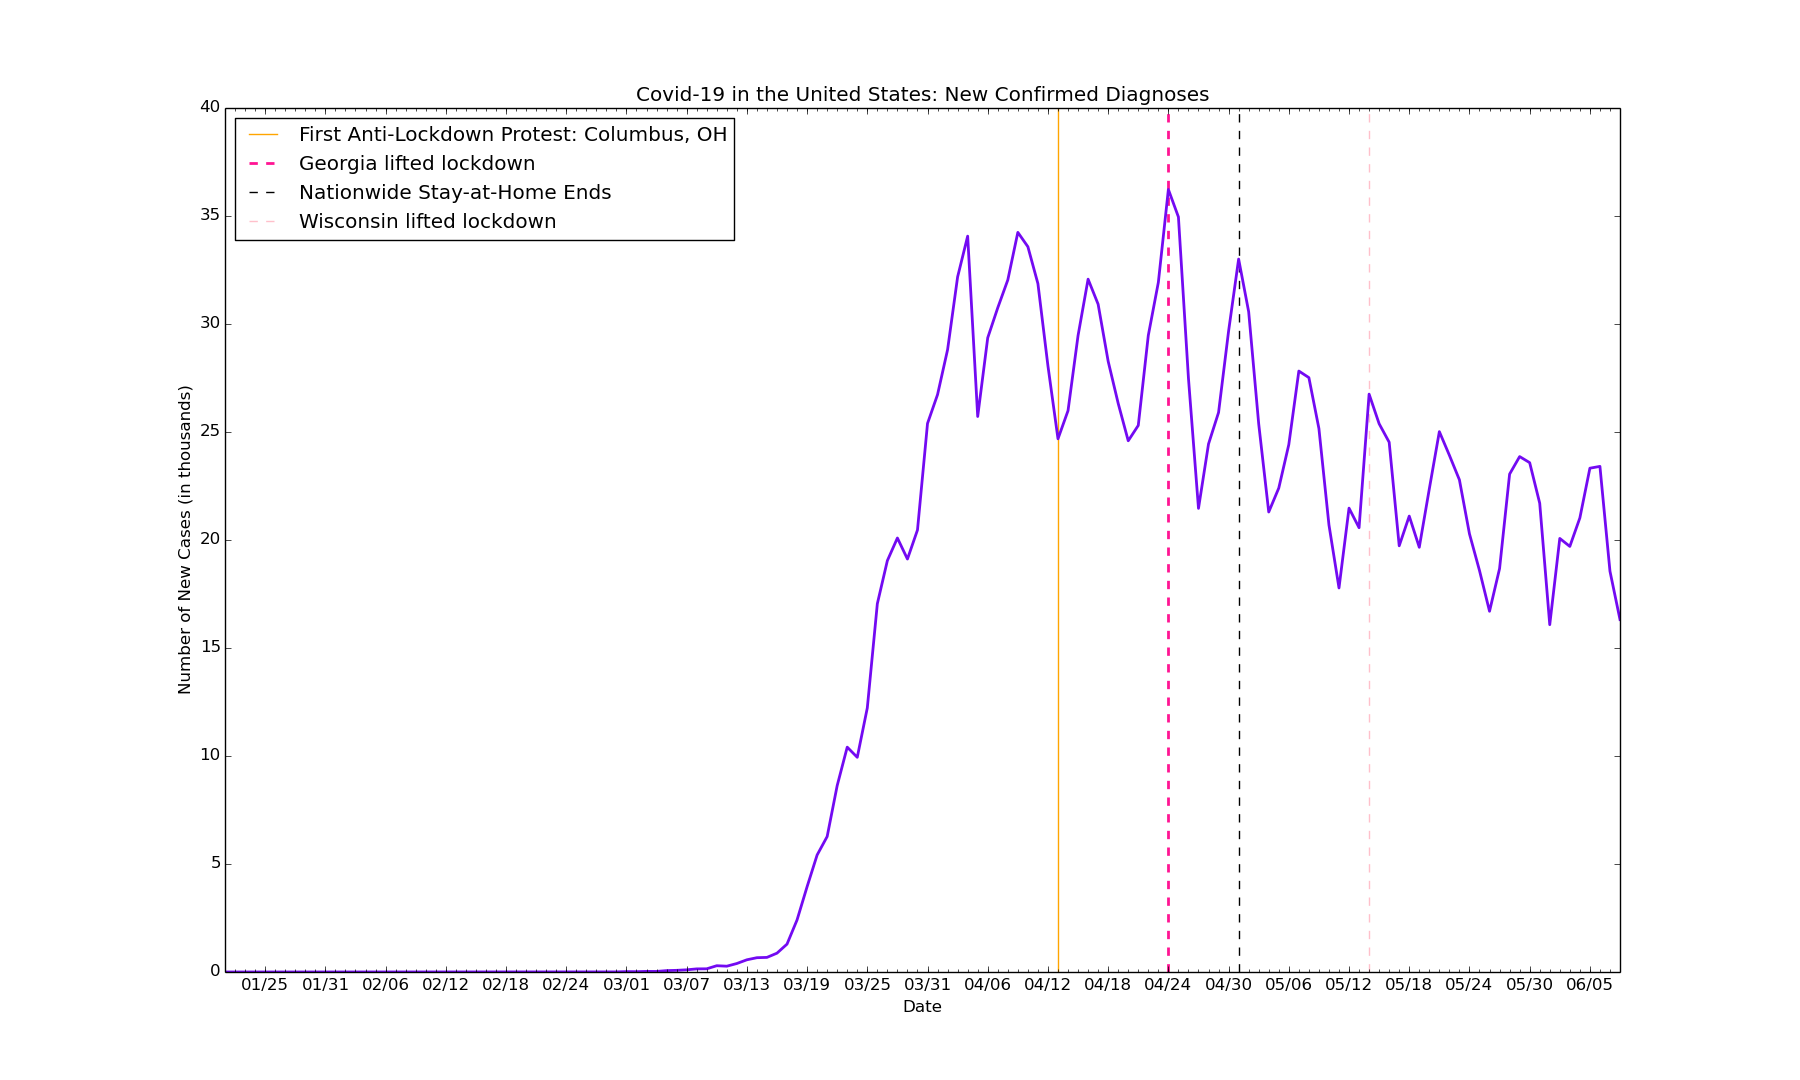
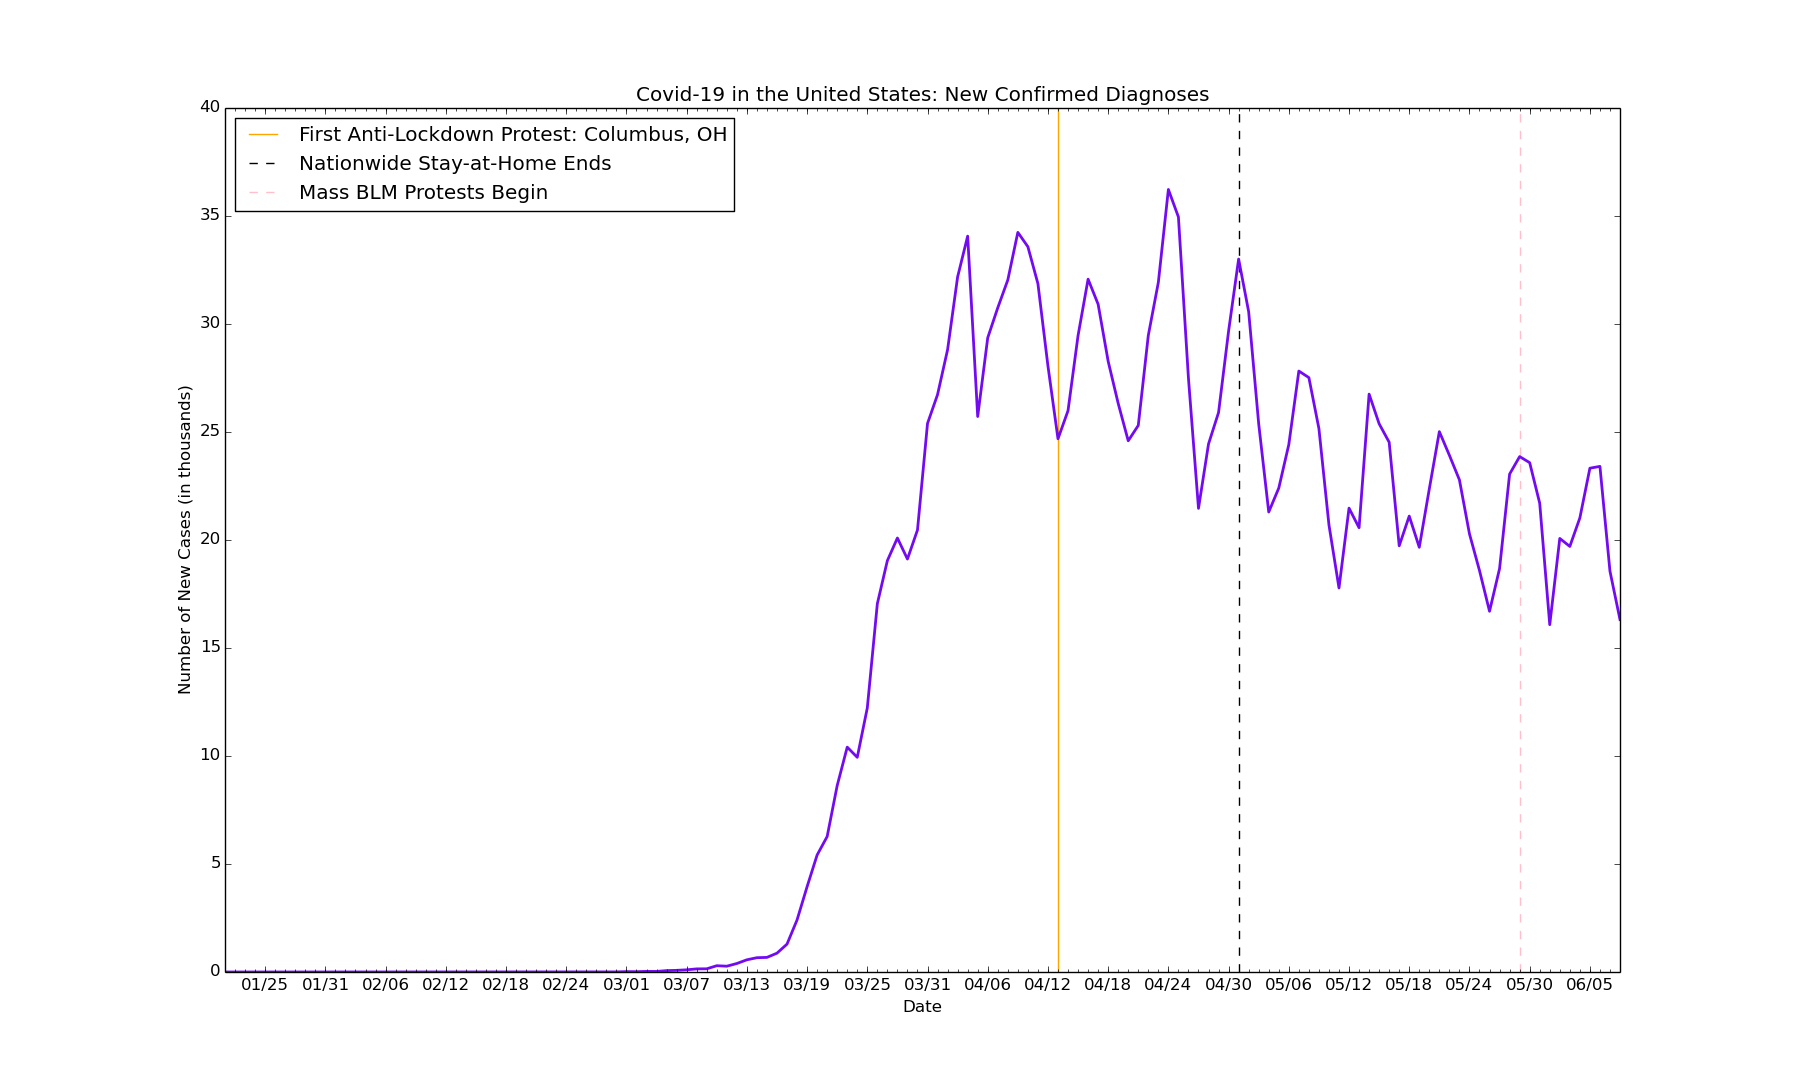
fix: Add vertical line for protests

Changed region(s): [[0.1244, 0.1222, 0.3422, 0.2139]]

diff --git a/usa/us-new.py b/usa/us-new.py
@@ -22,12 +22,10 @@ ax.get_yaxis().set_major_formatter(ticker.FuncFormatter(lambda x, pos: format(in
 
 # first anti-lockdown protest: Columbus, OH on April 13
 plt.axvline(dt.datetime(2020, 4, 13), linestyle='-', color='orange', linewidth=1, label='protest')
-# Georgia starts to reopen
-plt.axvline(dt.datetime(2020, 4, 24), linestyle='--', color='#FF1493', linewidth=2, label='georgia')
 # nationwide lockdown lifted
 plt.axvline(dt.datetime(2020, 5, 1), linestyle='--', color='black', linewidth=1, label='lift')
-# Wisconsin lockdown lifted
-plt.axvline(dt.datetime(2020, 5, 14), linestyle='--', color='pink', linewidth=1, label='lift')
+# first day of mass BLM protests
+plt.axvline(dt.datetime(2020, 5, 29), linestyle='--', color='pink', linewidth=1, label='lift')
 
 # new cases by day
 new_cases = [1, 0, 0, 1, 1, 2, 0, 0, 0, 1, 1, 1, 3, 0, 0, 1, 0, 0, 0, 0, 0, 0, 0, 0, 0, 0, 0, 0, 0, 0, 2, 0, 0, 0, 0, 0, 1, 0, 4, 5, 18, 15, 28, 26, 64, 77, 101, 144, 148, 291, 269, 393, 565, 662, 676, 872, 1291, 2410, 3948, 5417, 6271, 8631, 10410, 9939, 12226, 17050, 19046, 20093, 19118, 20463, 25396, 26732, 28812, 32182, 34068, 25717, 29362, 30752, 32039, 34243, 33578, 31869, 28057, 24685, 25987, 29465, 32076, 30915, 28274, 26323, 24593, 25304, 29473, 31926, 36229, 34955, 27488, 21464, 24447, 25904, 29674, 33007, 30568, 25375, 21296, 22404, 24420, 27822, 27518, 25158, 20698, 17779, 21475, 20568, 26754, 25382, 24527, 19731, 21107, 19662, 22368, 25017, 23923, 22784, 20286, 18586, 16700, 18677, 23051, 23862, 23581, 21703, 16079, 20073, 19703, 21021, 23324, 23408, 18556, 16316]
@@ -36,7 +34,7 @@ new_cases = [1, 0, 0, 1, 1, 2, 0, 0, 0, 1, 1, 1, 3, 0, 0, 1, 0, 0, 0, 0, 0, 0, 0
 plt.title('Covid-19 in the United States: New Confirmed Diagnoses')
 plt.xlabel('Date')
 plt.ylabel('Number of New Cases (in thousands)')
-plt.legend(['First Anti-Lockdown Protest: Columbus, OH', 'Georgia lifted lockdown', 'Nationwide Stay-at-Home Ends', 'Wisconsin lifted lockdown'], loc='upper left')
+plt.legend(['First Anti-Lockdown Protest: Columbus, OH', 'Nationwide Stay-at-Home Ends', 'Mass BLM Protests Begin'], loc='upper left')
 
 # create the graph
 plt.plot(x_values, new_cases, color='#730af2', linewidth=2)
